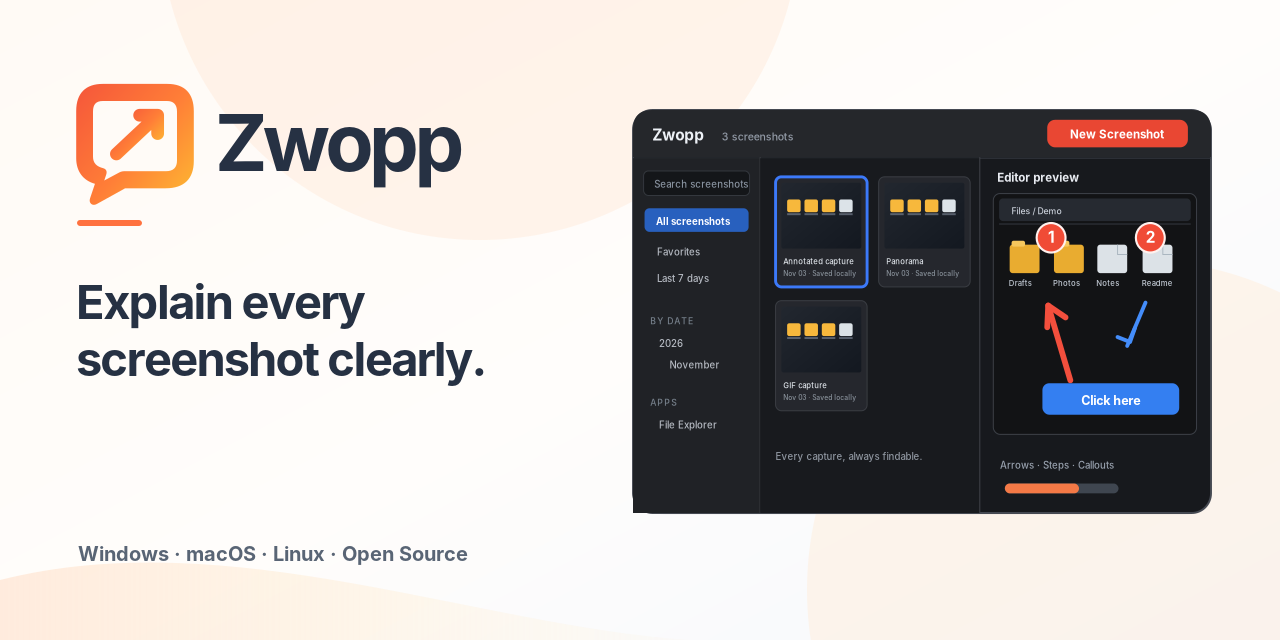
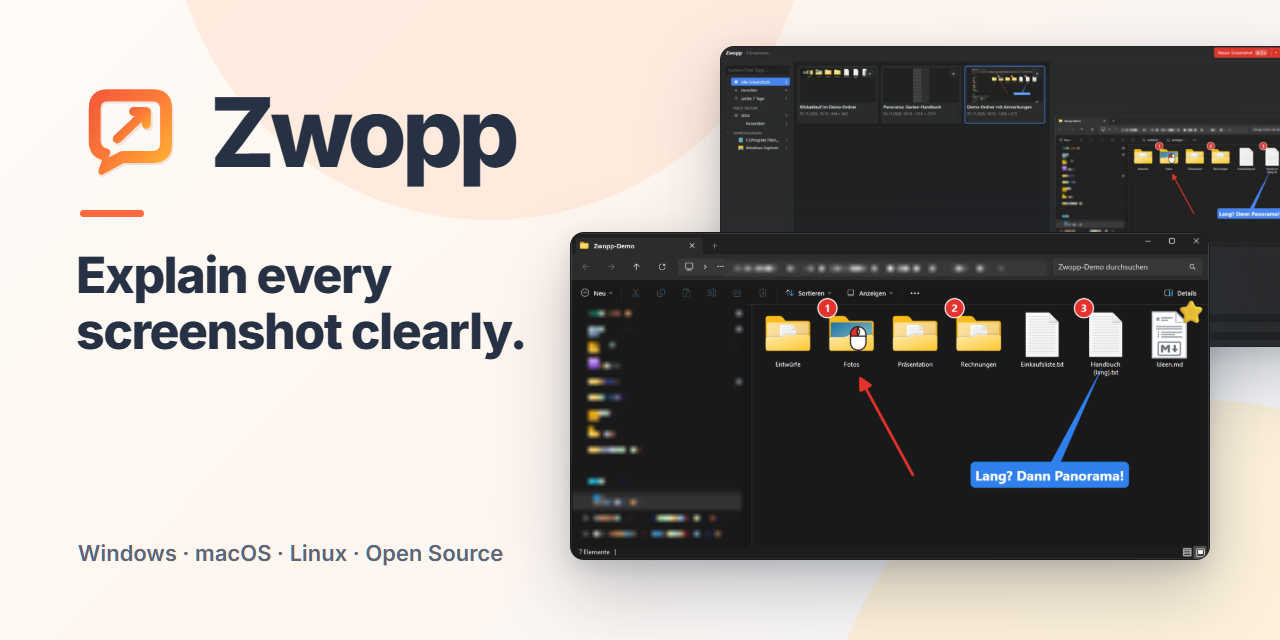
docs: social preview from real screenshots
The GitHub social preview shows the real library and an annotated
screenshot instead of a drawn interface. Its source is an HTML page next
to it, rendered with render-social-preview.mjs.

diff --git a/docs/media/brand/social-preview.html b/docs/media/brand/social-preview.html
@@ -1,0 +1,58 @@
+<!doctype html>
+<!--
+  Source of social-preview.png (1280 × 640, GitHub › Settings › Social preview).
+  Uses the real screenshots from docs/media. Render it again with:
+  node docs/media/brand/render-social-preview.mjs
+-->
+<html>
+<head>
+<meta charset="utf-8">
+<link rel="preconnect" href="https://fonts.googleapis.com">
+<link href="https://fonts.googleapis.com/css2?family=Inter:wght@600;700;800&display=block" rel="stylesheet">
+<style>
+  * { box-sizing: border-box; margin: 0; }
+  html, body { width: 1280px; height: 640px; overflow: hidden; }
+  body {
+    font-family: Inter, sans-serif;
+    background: linear-gradient(135deg, #FFFBF8 0%, #FFF6EF 45%, #F5F8FD 100%);
+    position: relative;
+    color: #263143;
+  }
+  .blob { position: absolute; border-radius: 50%; }
+  .b1 { width: 640px; height: 640px; left: 170px; top: -420px; background: #FFE6D6; opacity: .7; }
+  .b2 { width: 760px; height: 760px; right: -300px; bottom: -520px; background: #FFEFD2; opacity: .8; }
+
+  .left { position: absolute; left: 76px; top: 76px; width: 470px; }
+  .brand { display: flex; align-items: center; gap: 22px; }
+  .brand img { width: 112px; height: 112px; }
+  .brand span { font-weight: 800; font-size: 96px; letter-spacing: -.05em; line-height: 1; }
+  .rule { width: 64px; height: 7px; border-radius: 4px; background: #FF6A3D; margin: 22px 0 0 4px; }
+  h1 { font-weight: 800; font-size: 50px; line-height: 1.12; letter-spacing: -.03em; margin-top: 30px; }
+  .platforms { position: absolute; left: 78px; bottom: 74px; font-weight: 600; font-size: 22px; color: #5B6678; }
+
+  .window {
+    position: absolute; border-radius: 14px; overflow: hidden;
+    border: 1px solid rgba(17, 24, 39, .18);
+    box-shadow: 0 30px 70px rgba(38, 49, 67, .28), 0 8px 20px rgba(38, 49, 67, .14);
+    background: #1b1b1b;
+  }
+  .window img { display: block; width: 100%; }
+  .library { width: 600px; right: -40px; top: 46px; opacity: .96; }
+  .editor  { width: 640px; right: 70px; top: 232px; }
+</style>
+</head>
+<body>
+  <div class="blob b1"></div>
+  <div class="blob b2"></div>
+
+  <div class="window library"><img src="../library.jpg" alt=""></div>
+  <div class="window editor"><img src="../annotated.png" alt=""></div>
+
+  <div class="left">
+    <div class="brand"><img src="icon.svg" alt=""><span>Zwopp</span></div>
+    <div class="rule"></div>
+    <h1>Explain every screenshot clearly.</h1>
+  </div>
+  <div class="platforms">Windows · macOS · Linux · Open Source</div>
+</body>
+</html>
